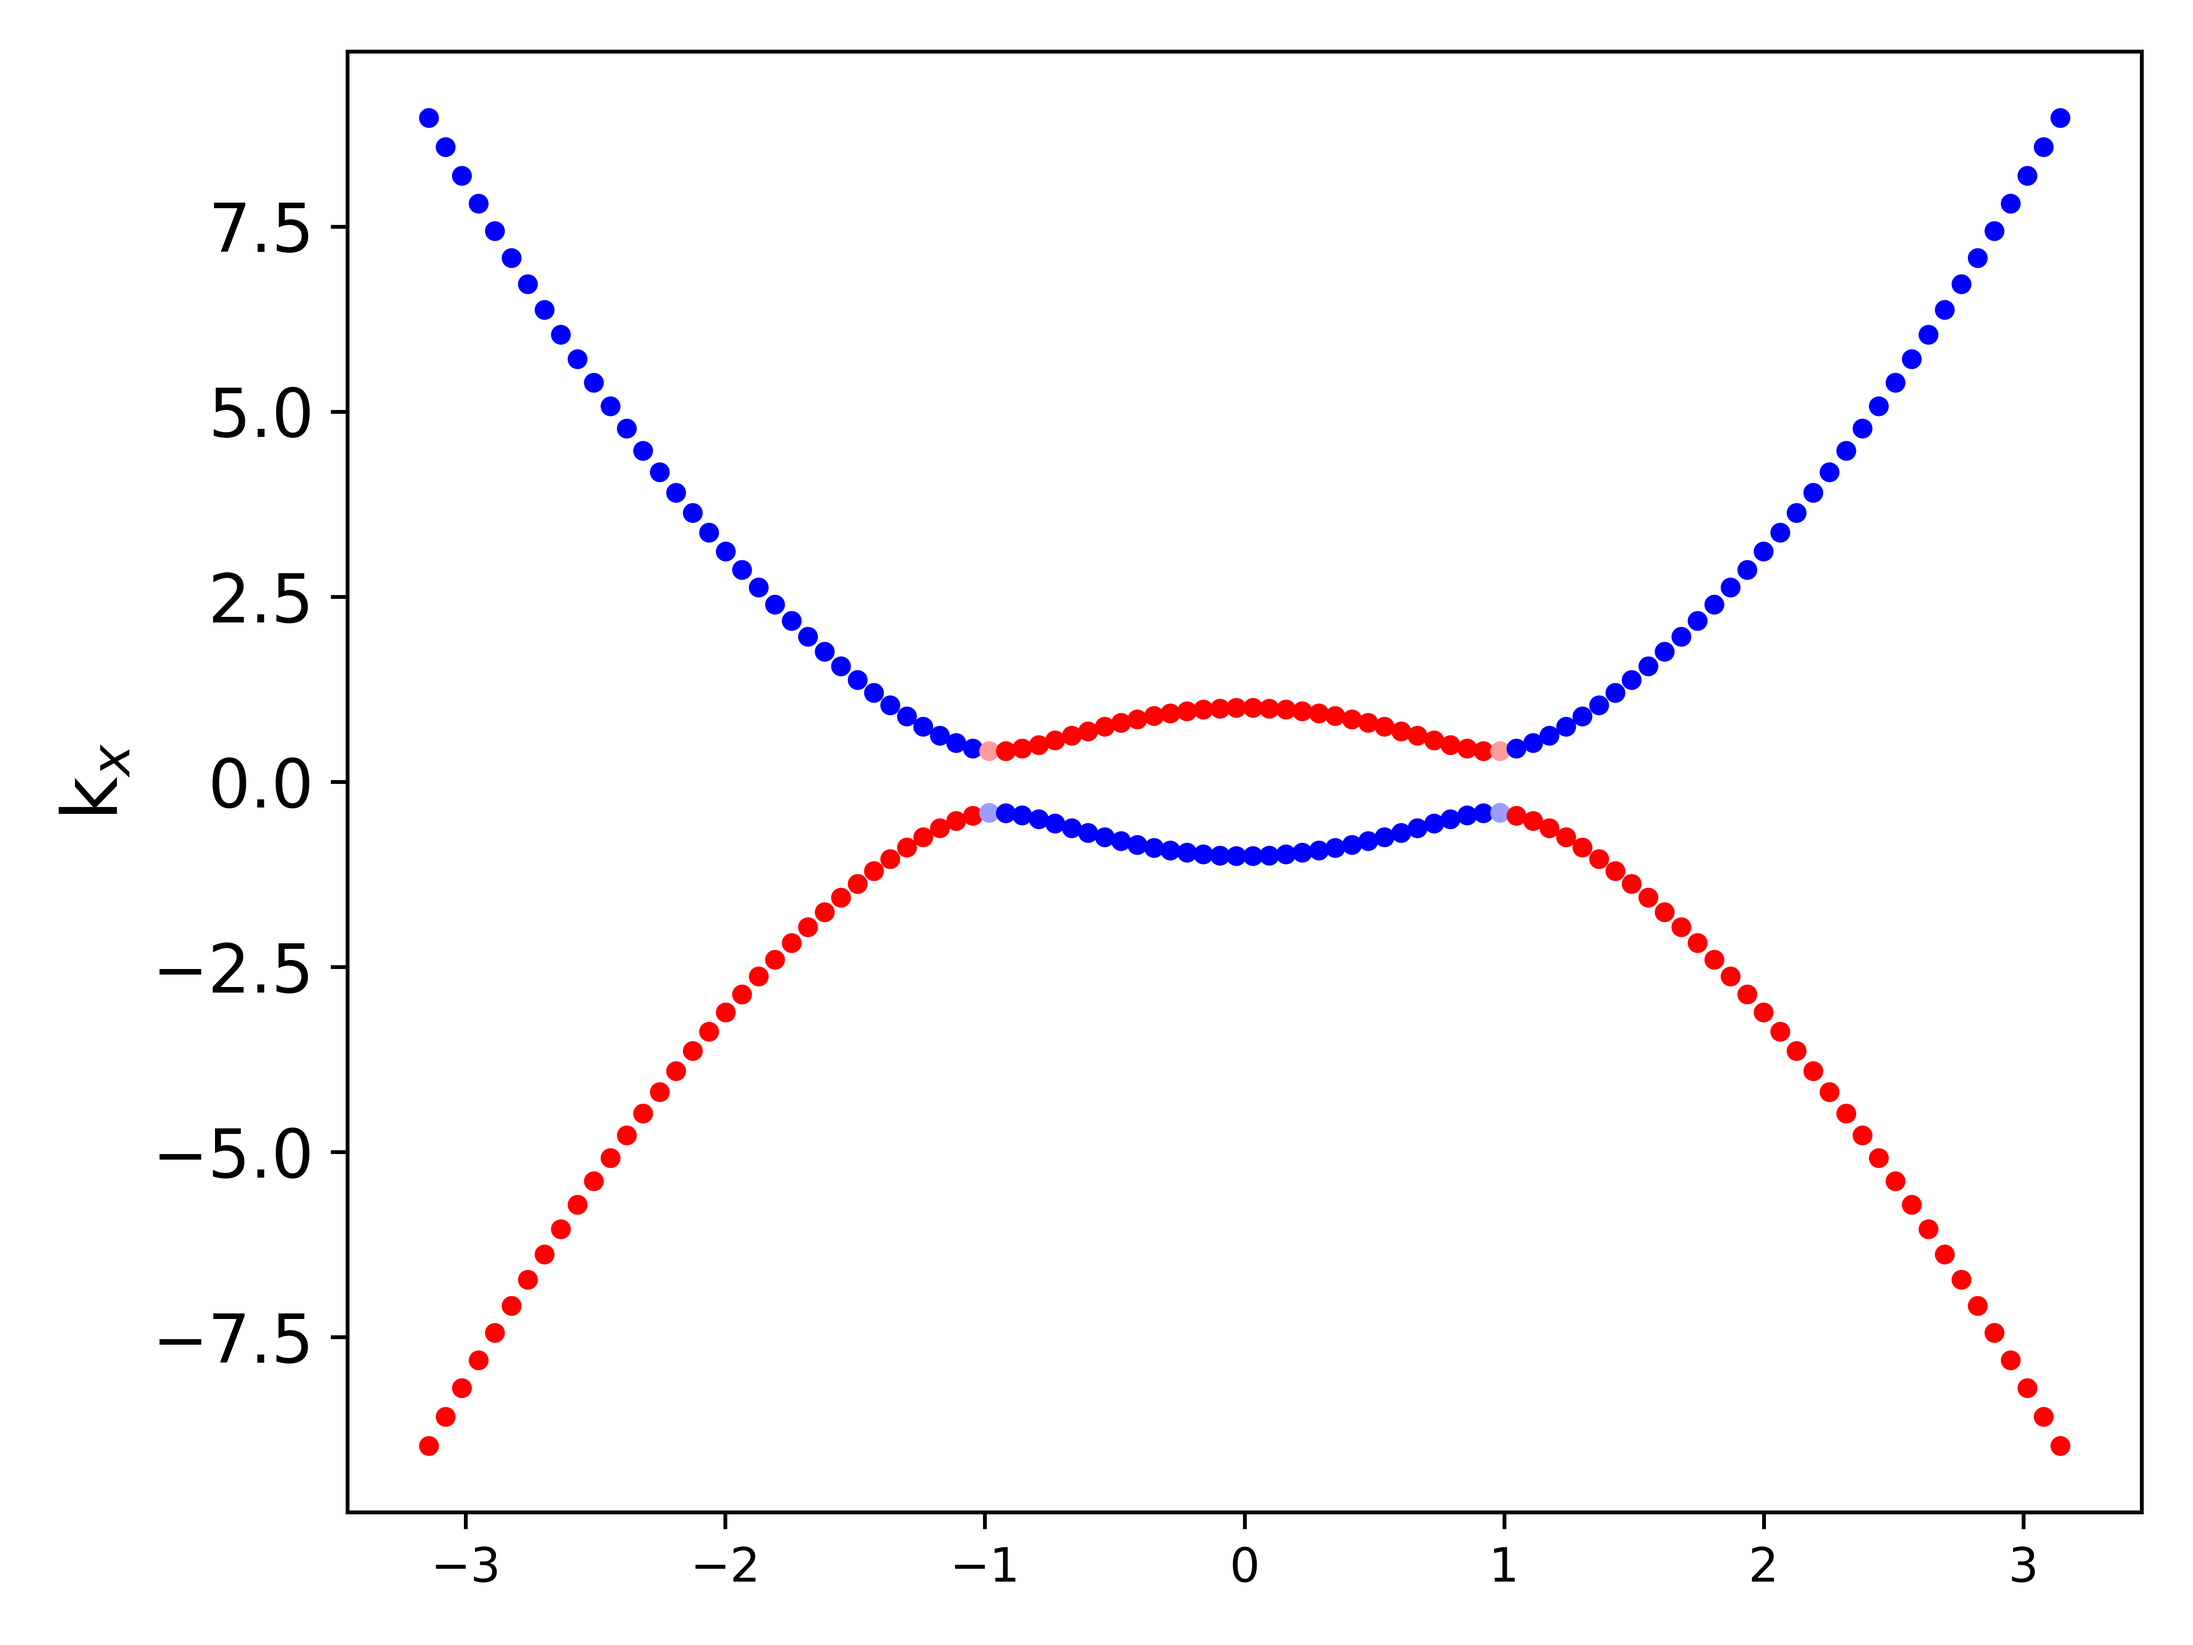
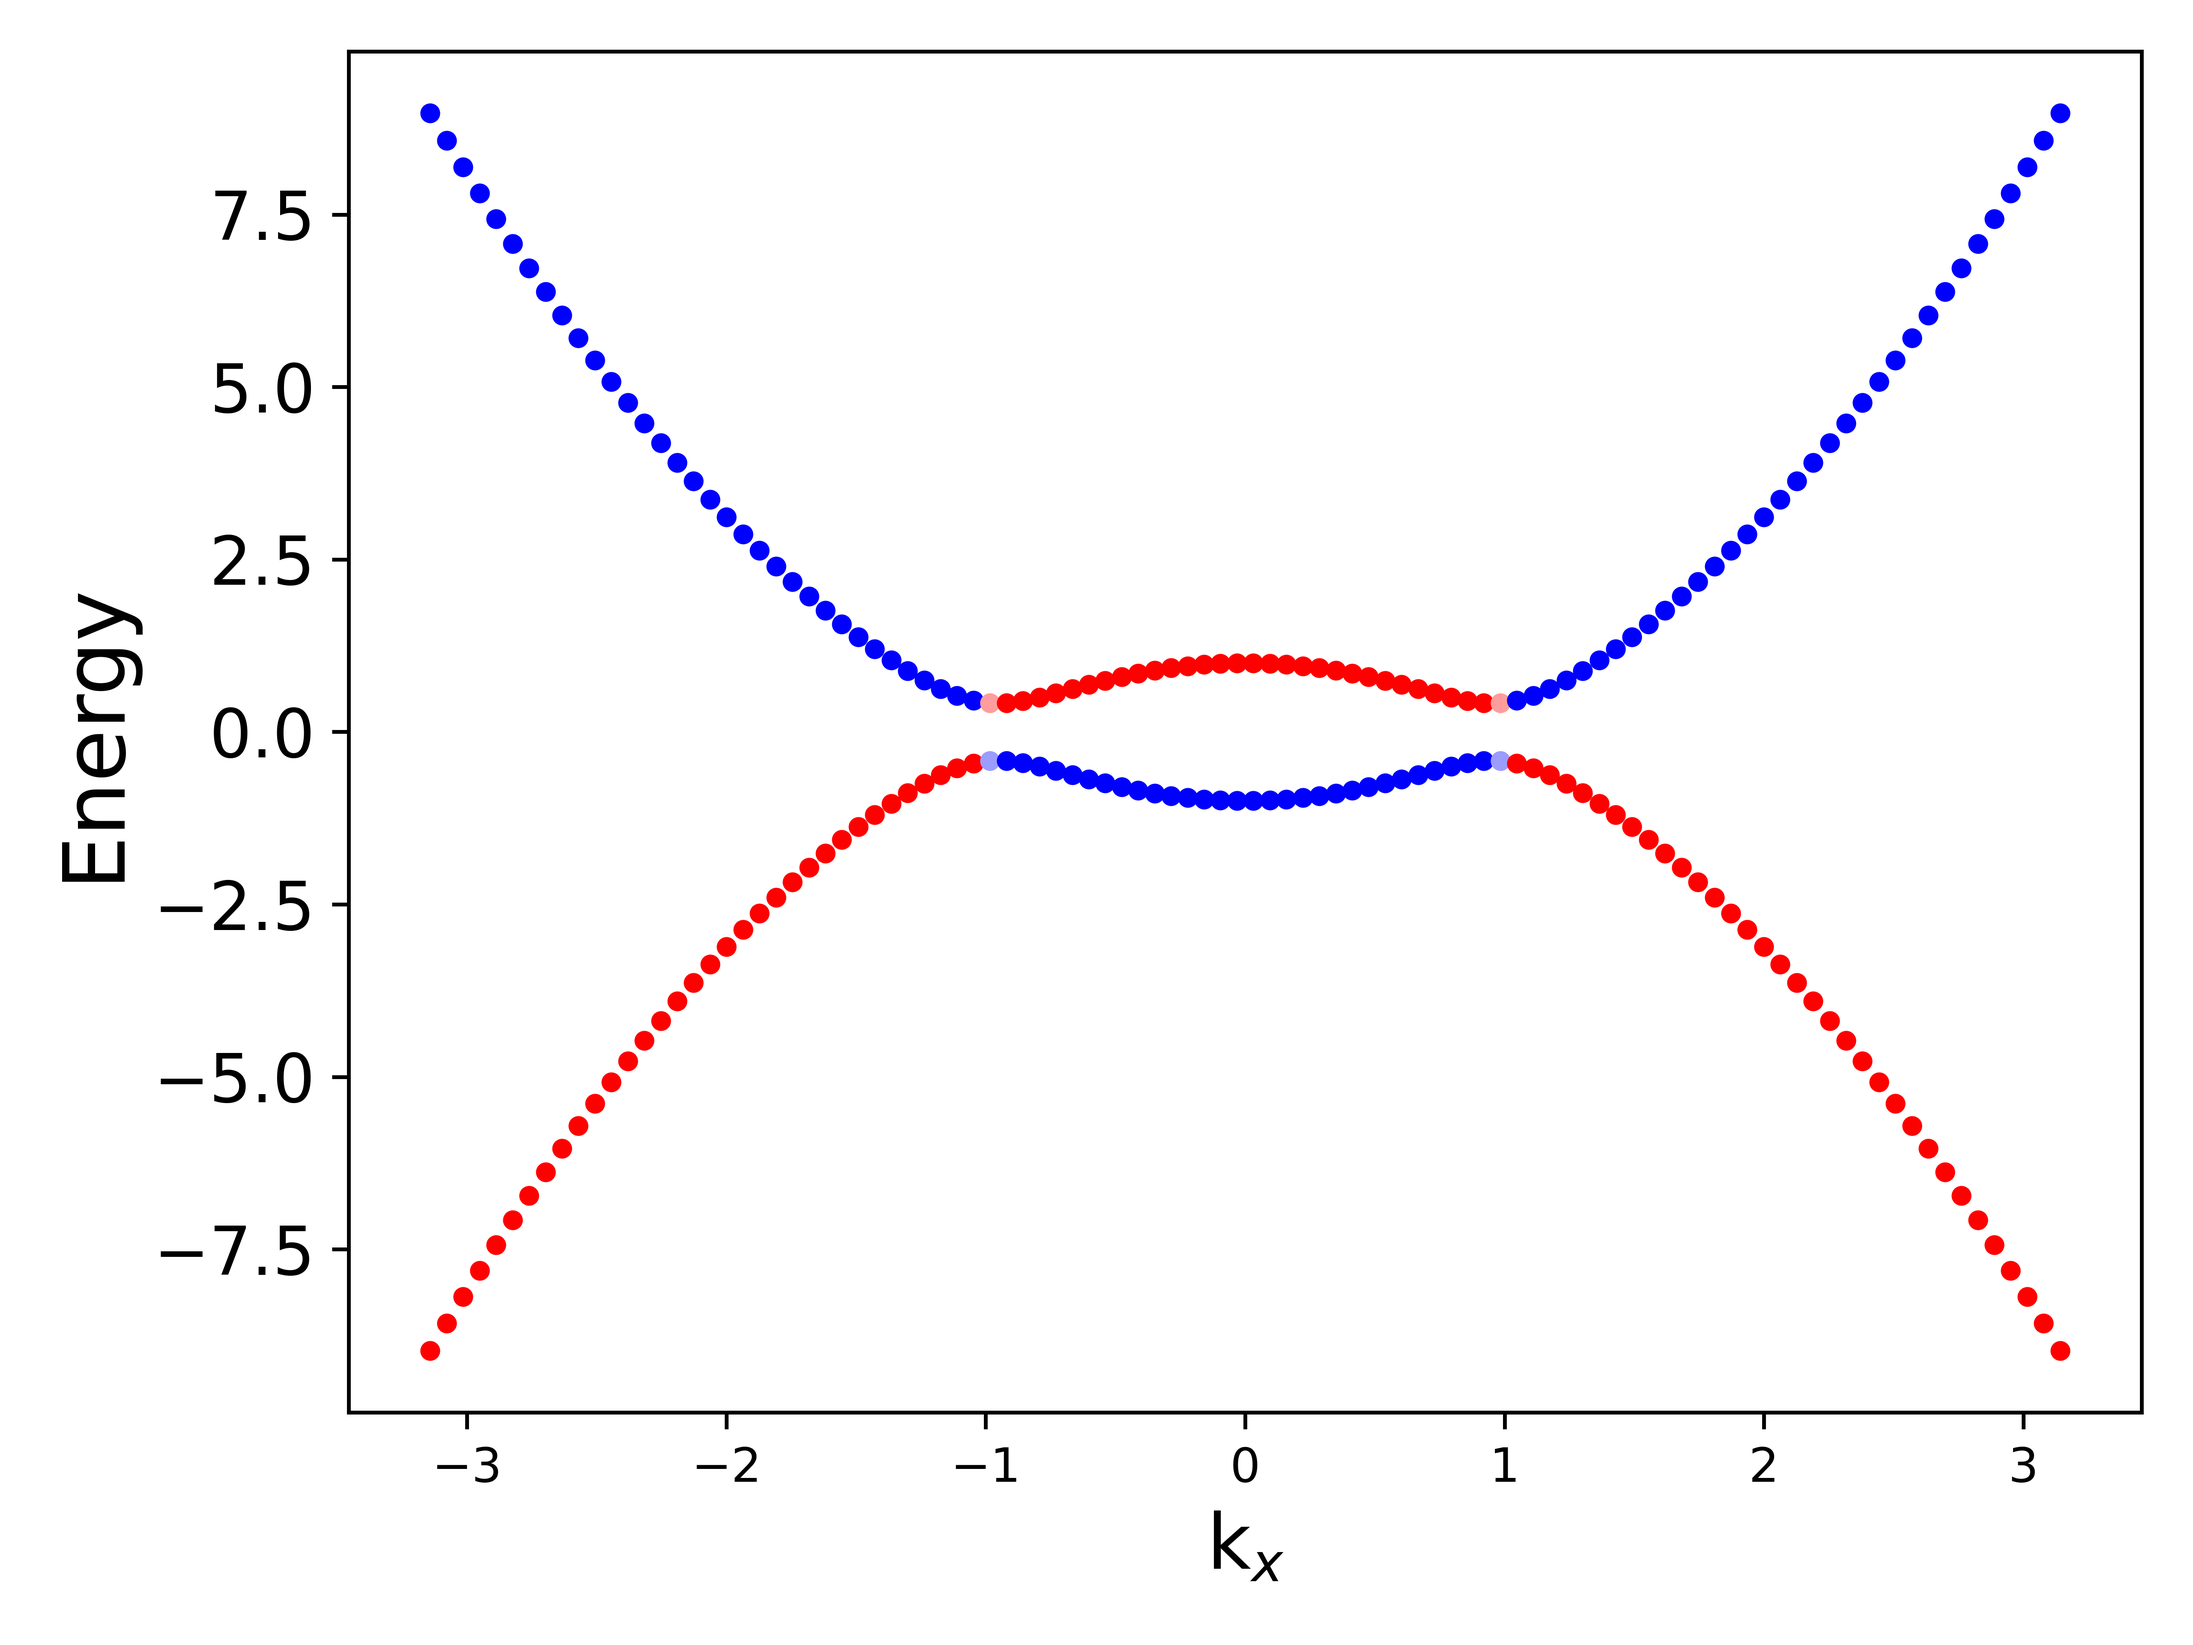
M and t changing

diff --git a/mass.py b/mass.py
@@ -1,0 +1,69 @@
+import qsh_main as qsh
+import numpy as np
+from matplotlib import pyplot as plt
+
+M=np.linspace(-10, 10, 1000)
+t=np.linspace(-10, 10, 1000)
+
+#Vamos analizar como o Bandgap varia de acordo com a mudança de M e com t fixo
+
+E0=[]
+E1=[]
+gap=[]
+
+for i in range (0, len(M), 1):
+        for j in range (0, len(qsh.kx_range), 1):
+            E, V = qsh.diagonalize_hamiltonian(qsh.kx_range[j], 0, qsh.t, M[i])
+            E0.append(E[0])
+            E1.append(E[1])
+        
+        gr0=max(E0)
+        gr1=min(E1)
+        print(gr0)
+        print(gr1)
+
+        gap.append(gr1-gr0)
+
+
+plt.figure()
+
+plt.plot(M, gap, color='r')
+plt.xlabel('M', fontsize=18)
+plt.ylabel('Bandgap Energy', fontsize=18)
+plt.xticks(fontsize=14)
+plt.yticks(fontsize=14)
+
+plt.tight_layout()
+plt.savefig('bandgap_M.png', dpi=800)
+
+#Fazendo o mesmo cálculo, mas com M fixo e t variando
+
+E2=[]
+E3=[]
+gap2=[]
+
+for i in range (0, len(M), 1):
+        for j in range (0, len(qsh.kx_range), 1):
+            E, V = qsh.diagonalize_hamiltonian(qsh.kx_range[j], 0, t[i], qsh.M)
+            E2.append(E[0])
+            E3.append(E[1])
+        
+        gr2=max(E2)
+        gr3=min(E3)
+        print(gr2)
+        print(gr3)
+
+        gap2.append(gr3-gr2)
+
+
+plt.figure()
+
+plt.plot(t, gap2, color='r')
+plt.xlabel('t', fontsize=18)
+plt.ylabel('Bandgap Energy', fontsize=18)
+plt.xticks(fontsize=14)
+plt.yticks(fontsize=14)
+
+plt.tight_layout()
+plt.savefig('bandgap_t.png', dpi=800)
+        

diff --git a/proj.py b/proj.py
@@ -43,10 +43,7 @@ for i in range (0, len(E0), 1):
 
 plt.ylabel('Energy', fontsize=18)
 plt.yticks(fontsize=14)
-plt.ylabel('k$_x$', fontsize=16)
+plt.xlabel('k$_x$', fontsize=16)
 
 plt.tight_layout()
 plt.savefig('proj.png', dpi=800)
-
-
-

diff --git a/hopping.py b/hopping.py
@@ -1,0 +1,1 @@
+import qsh_main as qsh
